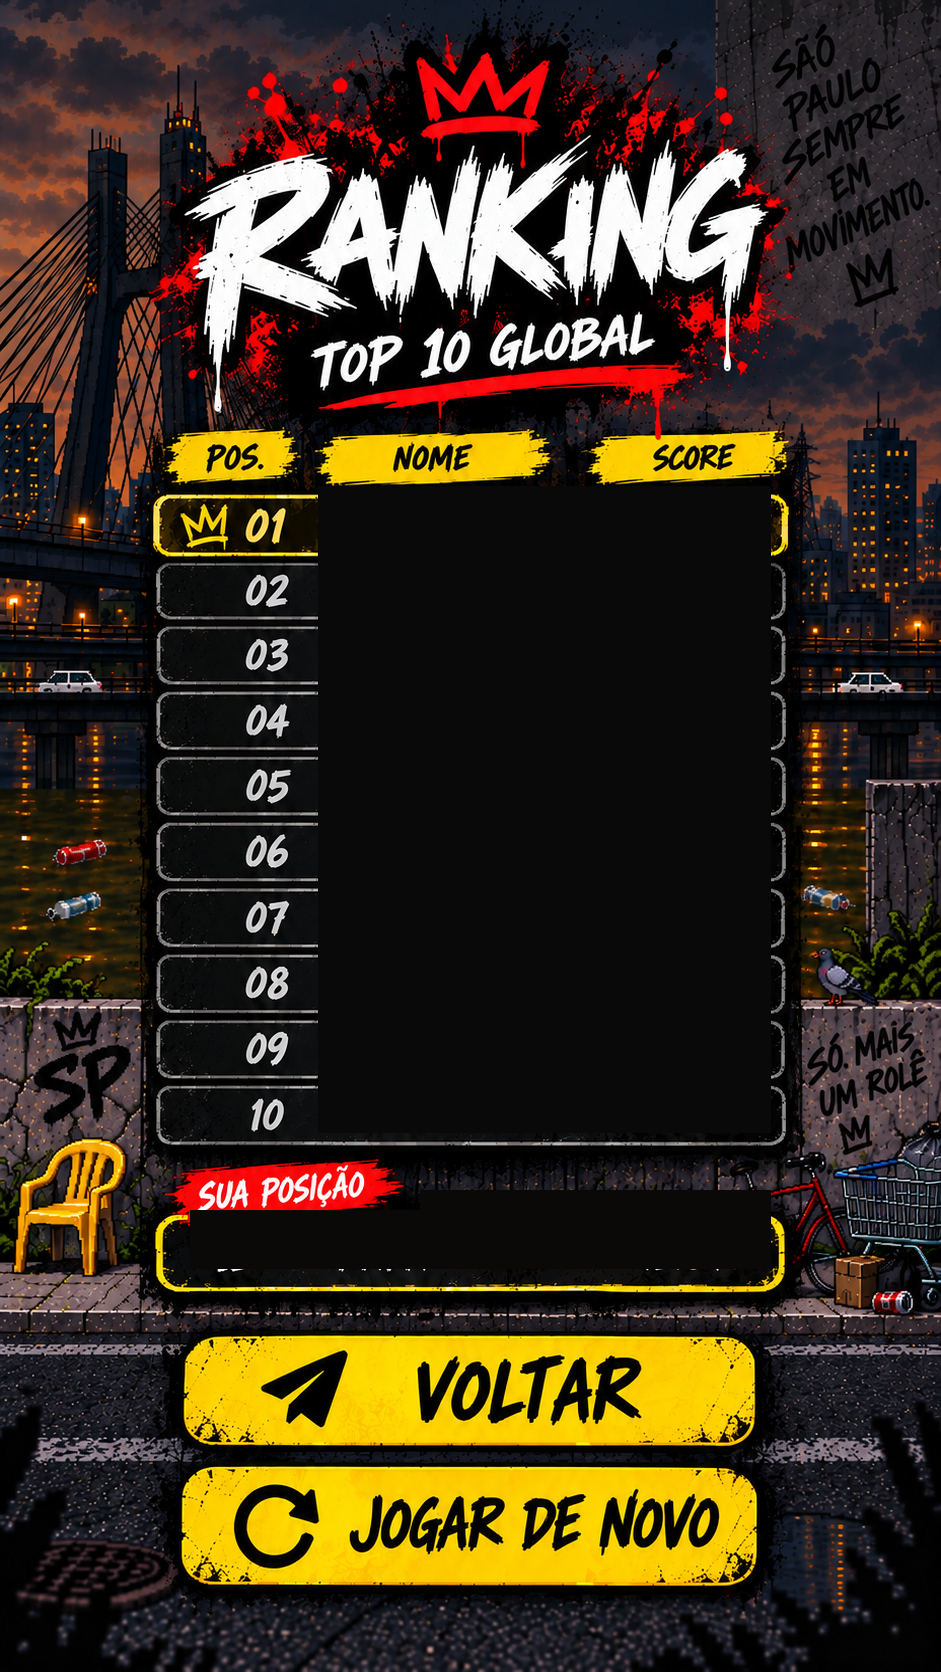
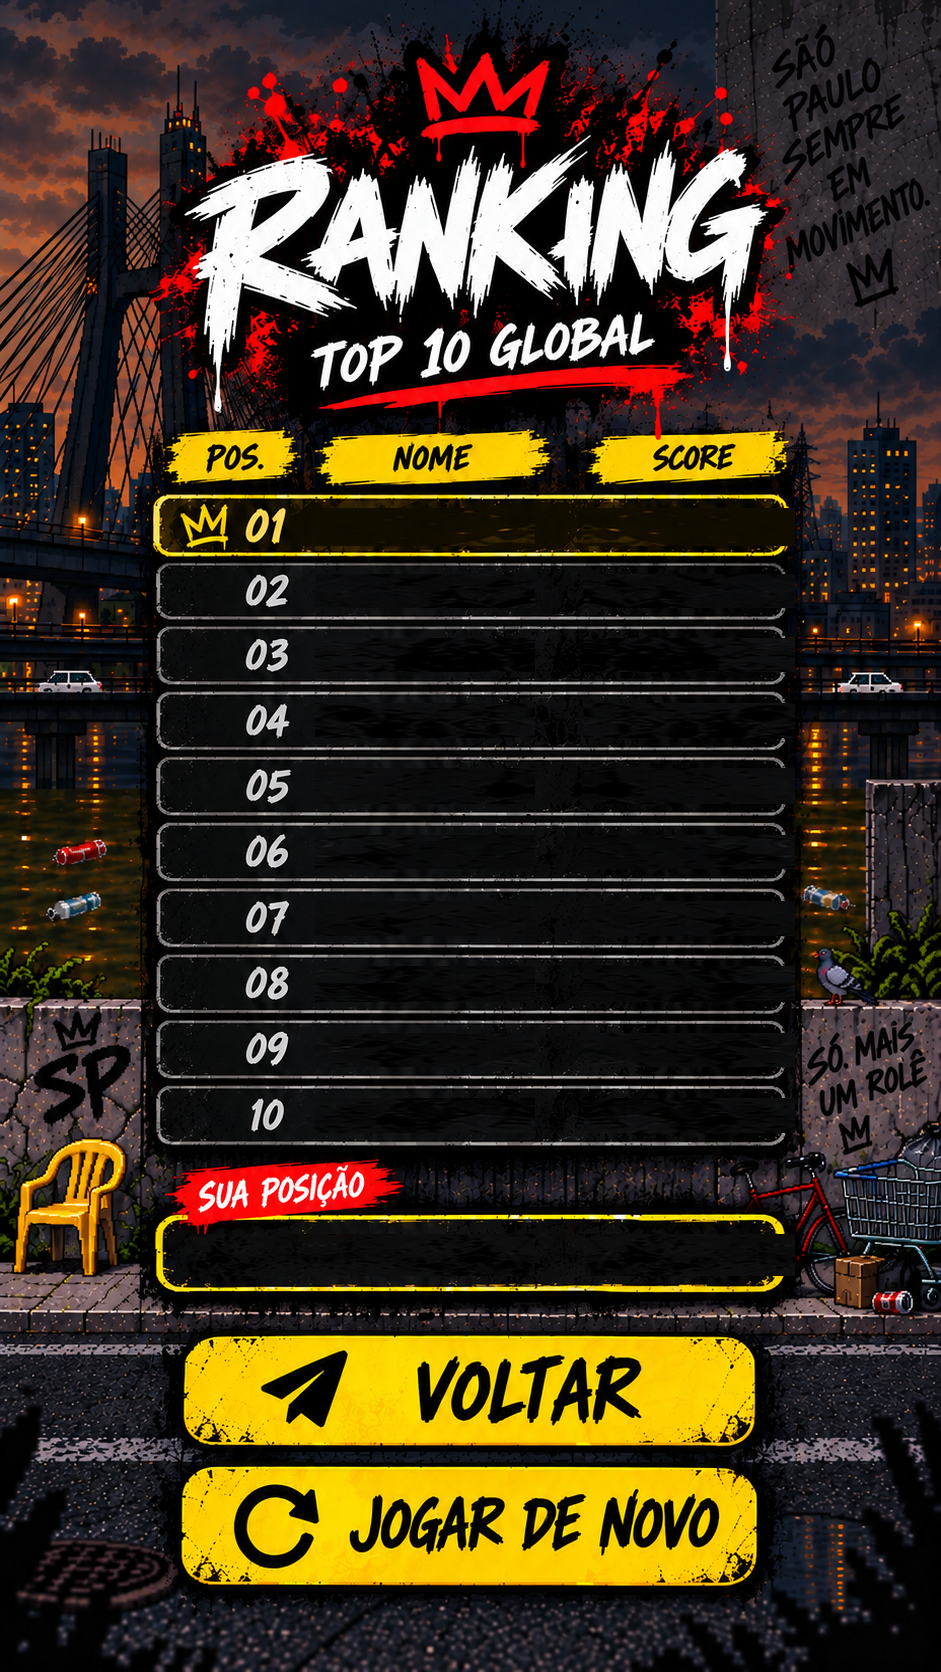
Add files via upload

diff --git a/index.html b/index.html
@@ -1,6 +1,6 @@
 <!-- SPG V13.17 QA: VIDA/AMBIÊNCIA normalizada; pombas intocadas; runner único raro. Base LOCK V13.16.2. -->
 <!-- SPG V13.22.2 QA PONTE/TRÁFEGO: baseline única fixa para 18 veículos (+50% de densidade); direção, velocidade, escala, assets e guard-rail preservados. Base: V13.22.1. -->
-<!-- SPG 1.1B — Online Ranking / Supabase. Based on approved SPG 1.1A QA FIX 04. SPG 1.0 MASTER remains untouched. -->
+<!-- SPG 1.1B QA FIX 05 — clean ranking art + smaller dynamic type. SPG 1.0 MASTER remains untouched. -->
 <!doctype html>
 <html lang="pt-BR">
 <head>
@@ -367,18 +367,18 @@
 #submitToast{left:20%;top:64.4%;width:60%;padding:7px 10px;border-radius:999px;background:rgba(8,9,10,.92);border:1px solid rgba(255,214,0,.7);color:#ffd500;text-align:center;font:400 clamp(11px,2.8vw,18px)/1 'Permanent Marker','Comic Sans MS',cursive;opacity:0;transform:translateY(6px);transition:.18s;pointer-events:none;}
 #submitToast.show{opacity:1;transform:translateY(0);}
 #rankingRows{left:16.1%;top:29.3%;width:67.0%;height:38.6%;display:grid;grid-template-rows:repeat(10,1fr);gap:.45%;}
-.rankingRow{display:grid;grid-template-columns:21% 43% 36%;align-items:center;background:transparent;border:0;border-radius:0;color:#eee;overflow:hidden;box-shadow:none;}
-.rankingRow.isTop{background:transparent;color:#f6d21c;}
-.rankingRow.isPlayer{background:transparent;box-shadow:none;}
-.rankPos,.rankName,.rankScore{display:flex;align-items:center;height:100%;white-space:nowrap;overflow:hidden;}
+.rankingRow{display:grid;grid-template-columns:21% 43% 36%;align-items:center;background:transparent !important;border:0;border-radius:0;color:#eee;overflow:hidden;box-shadow:none !important;}
+.rankingRow.isTop{background:transparent !important;color:#f6d21c;}
+.rankingRow.isPlayer{background:transparent !important;box-shadow:none !important;}
+.rankPos,.rankName,.rankScore{display:flex;align-items:center;height:100%;white-space:nowrap;overflow:hidden;background:transparent !important;text-shadow:none;}
 #rankingRows .rankPos{visibility:hidden;}
-.rankPos{justify-content:center;font:400 clamp(17px,4.2vw,34px)/1 'Permanent Marker','Comic Sans MS',cursive;}
-.rankName{justify-content:center;padding-left:0;font:400 clamp(16px,4.0vw,33px)/1 'Permanent Marker','Comic Sans MS',cursive;text-transform:uppercase;}
-.rankScore{justify-content:center;padding-right:0;font:400 clamp(17px,4.1vw,34px)/1 'Anton','Arial Narrow',Arial,sans-serif;letter-spacing:.02em;}
-.rankCrown{font-size:.78em;margin-right:4px;color:#f2cc05;}
-#rankingOwnRow{left:16.7%;top:72.25%;width:65.9%;height:4.05%;display:grid;grid-template-columns:21% 43% 36%;align-items:center;background:transparent;border:0;border-radius:0;color:#fff;overflow:hidden;}
-#rankingOwnRow .rankPos,#rankingOwnRow .rankName{font:400 clamp(16px,4vw,32px)/1 'Permanent Marker','Comic Sans MS',cursive;}
-#rankingOwnRow .rankScore{font:400 clamp(17px,4.1vw,34px)/1 'Anton','Arial Narrow',Arial,sans-serif;}
+.rankPos{justify-content:center;font:400 clamp(11px,3.25vw,25px)/1 'Permanent Marker','Comic Sans MS',cursive;}
+.rankName{justify-content:center;padding:0 2%;font:400 clamp(11px,3.15vw,24px)/1 'Permanent Marker','Comic Sans MS',cursive;text-transform:uppercase;}
+.rankScore{justify-content:center;padding:0 2%;font:400 clamp(12px,3.25vw,25px)/1 'Anton','Arial Narrow',Arial,sans-serif;letter-spacing:0;}
+.rankCrown{font-size:.78em;margin-right:3px;color:#f2cc05;}
+#rankingOwnRow{left:16.7%;top:72.25%;width:65.9%;height:4.05%;display:grid;grid-template-columns:21% 43% 36%;align-items:center;background:transparent !important;border:0;border-radius:0;color:#fff;overflow:hidden;}
+#rankingOwnRow .rankPos,#rankingOwnRow .rankName{font:400 clamp(11px,3.15vw,24px)/1 'Permanent Marker','Comic Sans MS',cursive;background:transparent !important;}
+#rankingOwnRow .rankScore{font:400 clamp(12px,3.25vw,25px)/1 'Anton','Arial Narrow',Arial,sans-serif;background:transparent !important;letter-spacing:0;}
 #rankBackBtn{left:18.6%;top:78.2%;width:62.8%;height:7.5%;}
 #rankRestartBtn{left:18.6%;top:86.6%;width:62.8%;height:7.5%;}
 @media (max-width:380px){#nicknameInput{font-size:25px}.rankingRow{border-radius:6px}}
